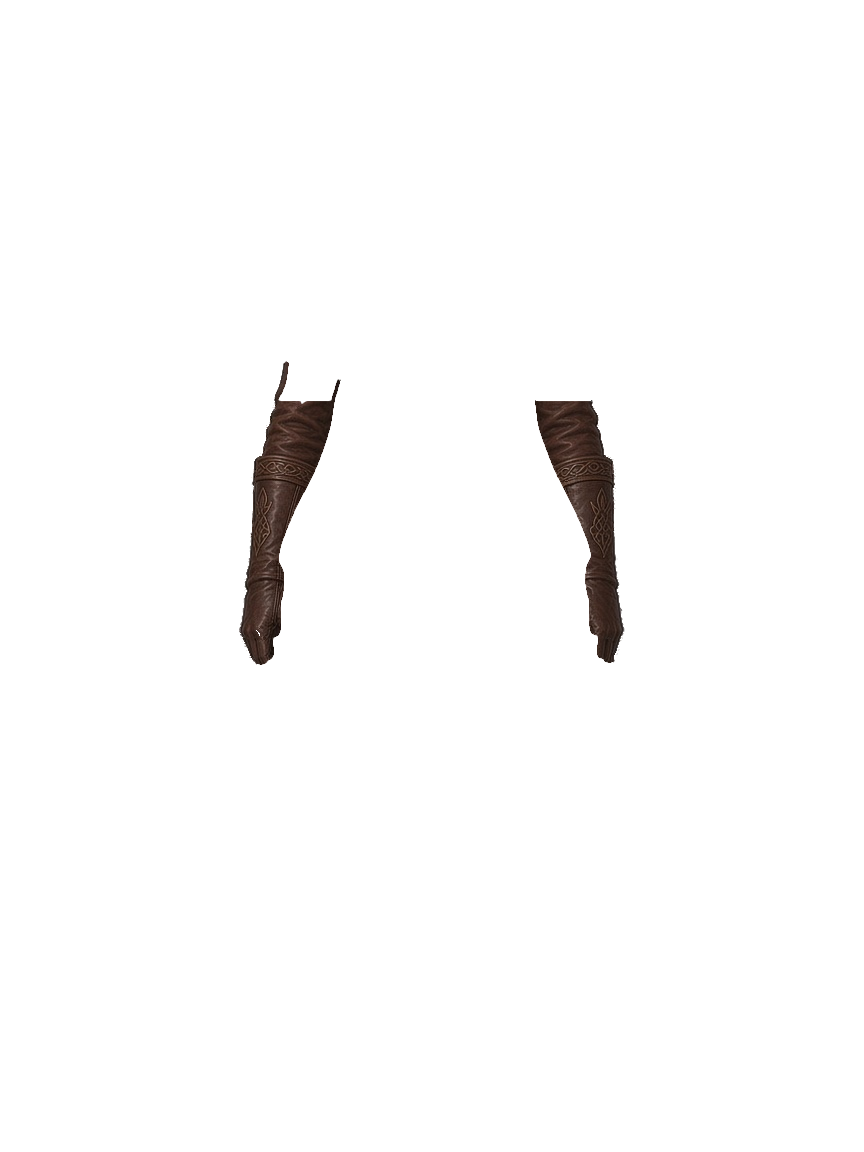
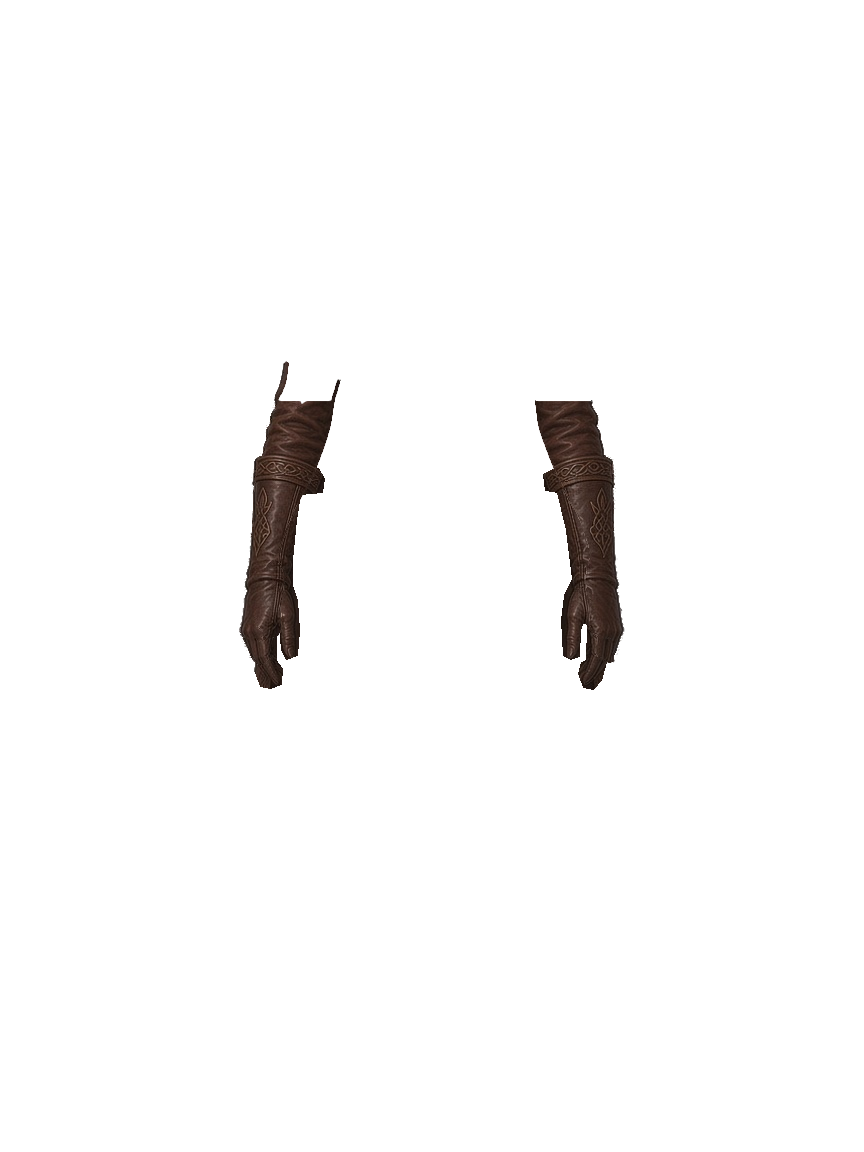
dolltest v5: masterwork gauntlets whole in gloves layer (cuff top to fingertips), sleeve/cloak refilled behind

Changed region(s): [[0.625, 0.4062, 0.7188, 0.5938], [0.2812, 0.4375, 0.3438, 0.5938], [0.3438, 0.4062, 0.375, 0.4375]]

diff --git a/dolltest/v5/layers.html b/dolltest/v5/layers.html
@@ -129,7 +129,7 @@
     let face = 1;      // 0 = original baked head, 1-10 = new head layers
     let hair = 1;      // 0 = none, 1-10
     // Bump this whenever layer PNGs change so iOS Safari does not keep stale tiles.
-    const LAYER_V = "20261117-cloak-fabric";
+    const LAYER_V = "20261117-mw-gauntlets";
     const ONBASE = ["common", "masterwork"];  // tiers cut from Art's on-base paintings
     // Tiers with hidden pants/boots underlaps (drawn only when both are on) so mixing
     // with another tier's boots or pants does not leave a strip of bare leg.
